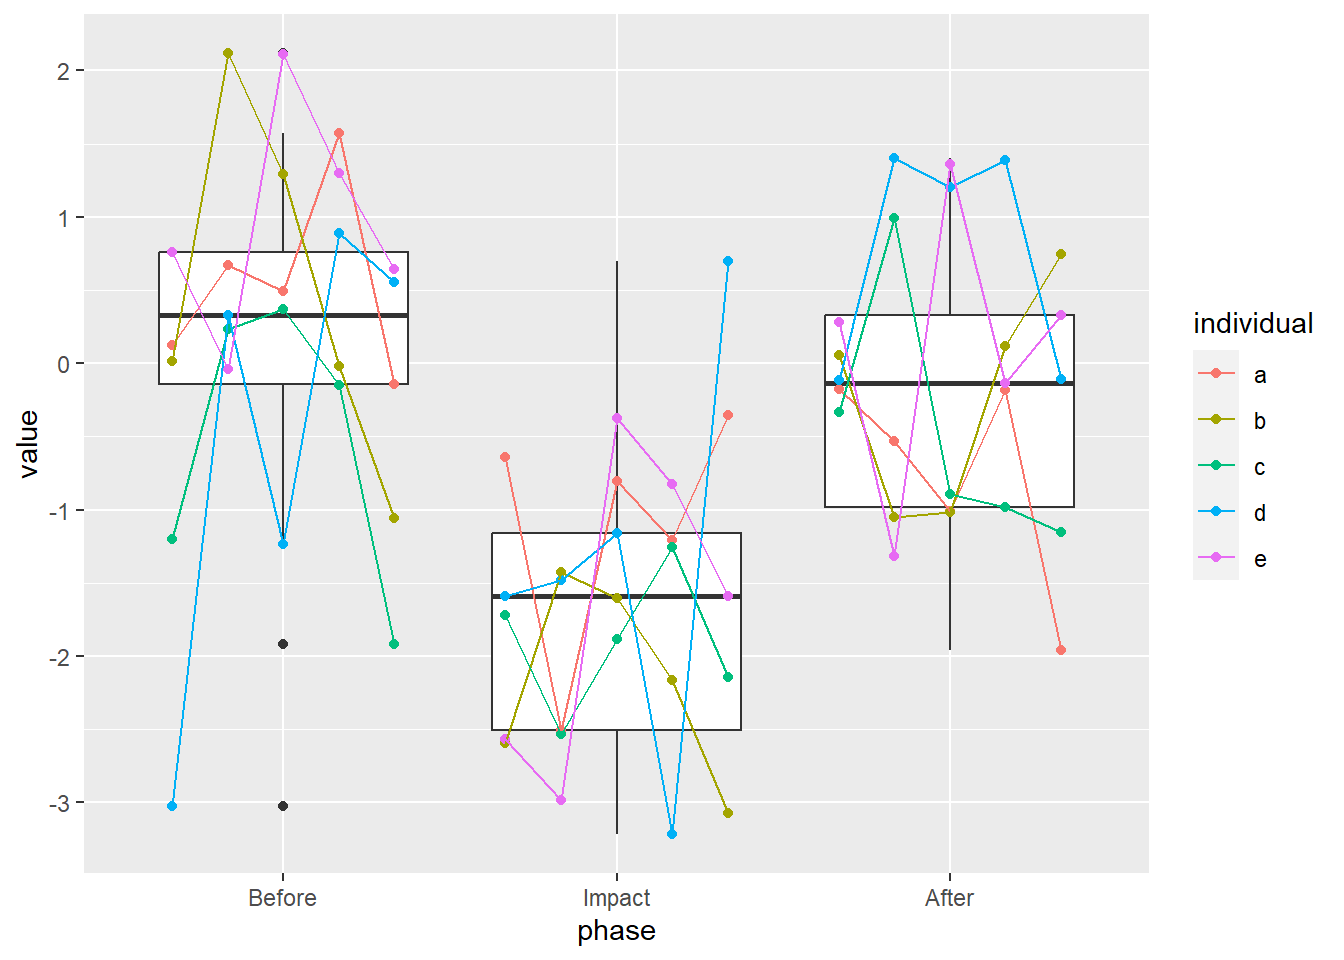
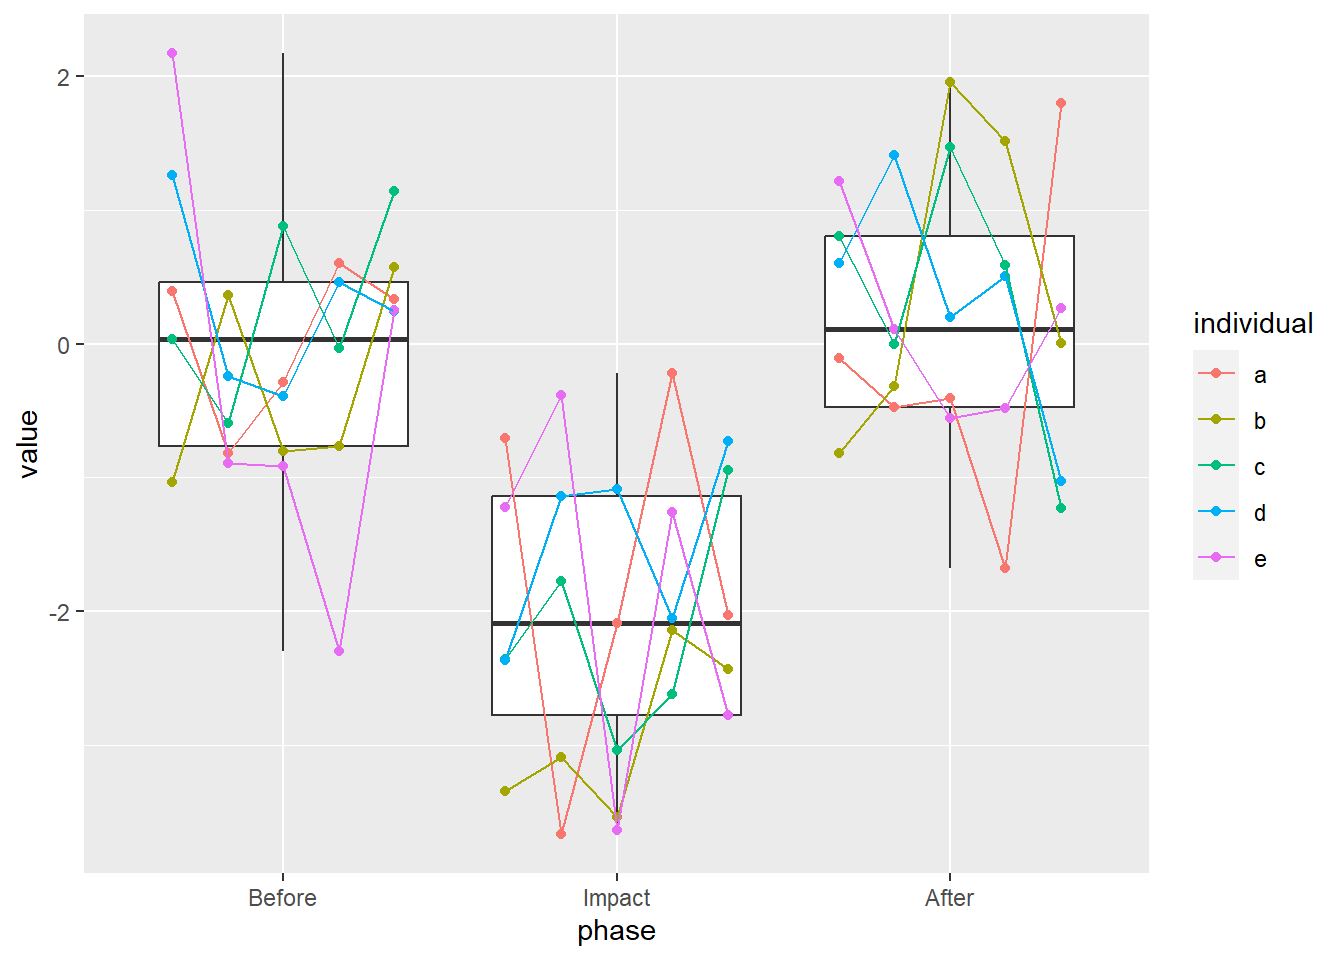
Built site for gh-pages

diff --git a/blog/2023/01_23_henrico_parcels/index.html b/blog/2023/01_23_henrico_parcels/index.html
@@ -211,7 +211,7 @@ pre > code.sourceCode > span > a:first-child::before { text-decoration: underlin
 </header>
 
 <p>A recent tweet showed the age of the buildings in Groningen, Netherlands super-imposed on LiDAR data for some perspective.</p>
-<p></p><div id="tweet-43388"></div><script>tweet={"url":"https:\/\/twitter.com\/neilcfd1\/status\/1560616470148575233","author_name":"Neil Southall","author_url":"https:\/\/twitter.com\/neilcfd1","html":"\u003Cblockquote class=\"twitter-tweet\" align=\"center\"\u003E\u003Cp lang=\"en\" dir=\"ltr\"\u003EHaven&#39;t done a Building Age render for a while - here is Groningen, Netherlands\u003Cbr\u003EBuilding age data \u003Ca href=\"https:\/\/twitter.com\/INSPIRE_EU?ref_src=twsrc%5Etfw\"\u003E@INSPIRE_EU\u003C\/a\u003E \u003Ca href=\"https:\/\/twitter.com\/Het_Kadaster?ref_src=twsrc%5Etfw\"\u003E@Het_Kadaster\u003C\/a\u003E overlaid on LiDAR height data (from \u003Ca href=\"https:\/\/t.co\/Sm0VEFXOXs\"\u003Ehttps:\/\/t.co\/Sm0VEFXOXs\u003C\/a\u003E).  Rendered in \u003Ca href=\"https:\/\/twitter.com\/hashtag\/rayshader?src=hash&amp;ref_src=twsrc%5Etfw\"\u003E#rayshader\u003C\/a\u003E \u003Ca href=\"https:\/\/twitter.com\/hashtag\/rstats?src=hash&amp;ref_src=twsrc%5Etfw\"\u003E#rstats\u003C\/a\u003E \u003Ca href=\"https:\/\/t.co\/CElUxvn1W6\"\u003Epic.twitter.com\/CElUxvn1W6\u003C\/a\u003E\u003C\/p\u003E&mdash; Neil Southall (@neilcfd1) \u003Ca href=\"https:\/\/twitter.com\/neilcfd1\/status\/1560616470148575233?ref_src=twsrc%5Etfw\"\u003EAugust 19, 2022\u003C\/a\u003E\u003C\/blockquote\u003E\n\u003Cscript async src=\"https:\/\/platform.twitter.com\/widgets.js\" charset=\"utf-8\"\u003E\u003C\/script\u003E\n","width":550,"height":null,"type":"rich","cache_age":"3153600000","provider_name":"Twitter","provider_url":"https:\/\/twitter.com","version":"1.0"};document.getElementById("tweet-43388").innerHTML = tweet["html"];</script><p></p>
+<p></p><div id="tweet-92179"></div><script>tweet={"url":"https:\/\/twitter.com\/neilcfd1\/status\/1560616470148575233","author_name":"Neil Southall","author_url":"https:\/\/twitter.com\/neilcfd1","html":"\u003Cblockquote class=\"twitter-tweet\" align=\"center\"\u003E\u003Cp lang=\"en\" dir=\"ltr\"\u003EHaven&#39;t done a Building Age render for a while - here is Groningen, Netherlands\u003Cbr\u003EBuilding age data \u003Ca href=\"https:\/\/twitter.com\/INSPIRE_EU?ref_src=twsrc%5Etfw\"\u003E@INSPIRE_EU\u003C\/a\u003E \u003Ca href=\"https:\/\/twitter.com\/Het_Kadaster?ref_src=twsrc%5Etfw\"\u003E@Het_Kadaster\u003C\/a\u003E overlaid on LiDAR height data (from \u003Ca href=\"https:\/\/t.co\/Sm0VEFXOXs\"\u003Ehttps:\/\/t.co\/Sm0VEFXOXs\u003C\/a\u003E).  Rendered in \u003Ca href=\"https:\/\/twitter.com\/hashtag\/rayshader?src=hash&amp;ref_src=twsrc%5Etfw\"\u003E#rayshader\u003C\/a\u003E \u003Ca href=\"https:\/\/twitter.com\/hashtag\/rstats?src=hash&amp;ref_src=twsrc%5Etfw\"\u003E#rstats\u003C\/a\u003E \u003Ca href=\"https:\/\/t.co\/CElUxvn1W6\"\u003Epic.twitter.com\/CElUxvn1W6\u003C\/a\u003E\u003C\/p\u003E&mdash; Neil Southall (@neilcfd1) \u003Ca href=\"https:\/\/twitter.com\/neilcfd1\/status\/1560616470148575233?ref_src=twsrc%5Etfw\"\u003EAugust 19, 2022\u003C\/a\u003E\u003C\/blockquote\u003E\n\u003Cscript async src=\"https:\/\/platform.twitter.com\/widgets.js\" charset=\"utf-8\"\u003E\u003C\/script\u003E\n","width":550,"height":null,"type":"rich","cache_age":"3153600000","provider_name":"Twitter","provider_url":"https:\/\/twitter.com","version":"1.0"};document.getElementById("tweet-92179").innerHTML = tweet["html"];</script><p></p>
 <p>This got me thinking – what would Henrico look like? I’m going to take the cheap way out and not mess with LiDAR at the moment, but the county provides their <a href="https://data-henrico.opendata.arcgis.com/datasets/Henrico::tax-parcels-and-cama-data/explore">Tax Parcels and CAMA Data</a> for easy download.</p>
 <div class="callout callout-style-default callout-note callout-titled">
 <div class="callout-header d-flex align-content-center">

diff --git a/blog/2023/05_25_time_series_box_plot/index.html b/blog/2023/05_25_time_series_box_plot/index.html
@@ -7,6 +7,7 @@
 <meta name="viewport" content="width=device-width, initial-scale=1.0, user-scalable=yes">
 
 <meta name="author" content="Mike O’Brien">
+<meta name="dcterms.date" content="2023-05-25">
 
 <title>Mike O’Brien - Time series box plot using R’s ggplot2</title>
 <style>
@@ -197,6 +198,12 @@ pre > code.sourceCode > span > a:first-child::before { text-decoration: underlin
           </div>
   </div>
     
+    <div>
+    <div class="quarto-title-meta-heading">Published</div>
+    <div class="quarto-title-meta-contents">
+      <p class="date">May 25, 2023</p>
+    </div>
+  </div>
   
     
   </div>
@@ -273,16 +280,16 @@ Attaching package: 'dplyr'</code></pre>
 # Rowwise: 
    individual time                phase   value
    &lt;chr&gt;      &lt;dttm&gt;              &lt;ord&gt;   &lt;dbl&gt;
- 1 a          2020-02-03 12:00:00 Before  0.125
- 2 a          2020-02-03 12:01:00 Before  0.670
- 3 a          2020-02-03 12:02:00 Before  0.494
- 4 a          2020-02-03 12:03:00 Before  1.57 
- 5 a          2020-02-03 12:04:00 Before -0.143
- 6 a          2020-02-03 12:05:00 Impact -0.643
- 7 a          2020-02-03 12:06:00 Impact -2.50 
- 8 a          2020-02-03 12:07:00 Impact -0.807
- 9 a          2020-02-03 12:08:00 Impact -1.20 
-10 a          2020-02-03 12:09:00 Impact -0.351
+ 1 a          2020-02-03 12:00:00 Before  0.389
+ 2 a          2020-02-03 12:01:00 Before -0.816
+ 3 a          2020-02-03 12:02:00 Before -0.288
+ 4 a          2020-02-03 12:03:00 Before  0.601
+ 5 a          2020-02-03 12:04:00 Before  0.332
+ 6 a          2020-02-03 12:05:00 Impact -0.707
+ 7 a          2020-02-03 12:06:00 Impact -3.67 
+ 8 a          2020-02-03 12:07:00 Impact -2.08 
+ 9 a          2020-02-03 12:08:00 Impact -0.221
+10 a          2020-02-03 12:09:00 Impact -2.03 
 # ℹ 65 more rows</code></pre>
 </div>
 </div>
@@ -324,18 +331,18 @@ Attaching package: 'dplyr'</code></pre>
 <span id="cb13-5"><a href="#cb13-5" aria-hidden="true" tabindex="-1"></a>my_data</span></code><button title="Copy to Clipboard" class="code-copy-button"><i class="bi"></i></button></pre></div>
 <div class="cell-output cell-output-stdout">
 <pre><code># A tibble: 75 × 6
-   phase  time.start   time.end individual       time   value
-   &lt;ord&gt;       &lt;dbl&gt;      &lt;dbl&gt; &lt;chr&gt;           &lt;dbl&gt;   &lt;dbl&gt;
- 1 Before 1580731200 1580731440 a          1580731200  0.125 
- 2 Before 1580731200 1580731440 a          1580731260  0.670 
- 3 Before 1580731200 1580731440 a          1580731320  0.494 
- 4 Before 1580731200 1580731440 a          1580731380  1.57  
- 5 Before 1580731200 1580731440 a          1580731440 -0.143 
- 6 Before 1580731200 1580731440 b          1580731200  0.0150
- 7 Before 1580731200 1580731440 b          1580731260  2.12  
- 8 Before 1580731200 1580731440 b          1580731320  1.29  
- 9 Before 1580731200 1580731440 b          1580731380 -0.0180
-10 Before 1580731200 1580731440 b          1580731440 -1.05  
+   phase  time.start   time.end individual       time  value
+   &lt;ord&gt;       &lt;dbl&gt;      &lt;dbl&gt; &lt;chr&gt;           &lt;dbl&gt;  &lt;dbl&gt;
+ 1 Before 1580731200 1580731440 a          1580731200  0.389
+ 2 Before 1580731200 1580731440 a          1580731260 -0.816
+ 3 Before 1580731200 1580731440 a          1580731320 -0.288
+ 4 Before 1580731200 1580731440 a          1580731380  0.601
+ 5 Before 1580731200 1580731440 a          1580731440  0.332
+ 6 Before 1580731200 1580731440 b          1580731200 -1.04 
+ 7 Before 1580731200 1580731440 b          1580731260  0.362
+ 8 Before 1580731200 1580731440 b          1580731320 -0.802
+ 9 Before 1580731200 1580731440 b          1580731380 -0.765
+10 Before 1580731200 1580731440 b          1580731440  0.569
 # ℹ 65 more rows</code></pre>
 </div>
 </div>

diff --git a/blog/index.html b/blog/index.html
@@ -190,7 +190,7 @@ ul.task-list li input[type="checkbox"] {
 
 <div class="quarto-listing quarto-listing-container-default" id="listing-listing">
 <div class="list quarto-listing-default">
-<div class="quarto-post image-right" data-index="0" data-categories="R,ggplot2,chart junk,time series" data-listing-file-modified-sort="1685056053142" data-listing-reading-time-sort="7">
+<div class="quarto-post image-right" data-index="0" data-categories="R,ggplot2,chart junk,time series" data-listing-date-sort="1684987200000" data-listing-file-modified-sort="1685214441871" data-listing-date-modified-sort="NaN" data-listing-reading-time-sort="7">
 <div class="thumbnail">
 <p><a href="../blog/2023/05_25_time_series_box_plot/index.html"> <p class="card-img-top"><img src="2023\05_25_time_series_box_plot\index_files\figure-html\unnamed-chunk-12-1.png"  class="thumbnail-image card-img"/></p> </a></p>
 </div>
@@ -225,6 +225,9 @@ Before you start, know that this one is firmly in the “chart junk” category.
 </div>
 <div class="metadata">
 <a href="../blog/2023/05_25_time_series_box_plot/index.html">
+<div class="listing-date">
+May 25, 2023
+</div>
 <div class="listing-author">
 Mike O’Brien
 </div>
